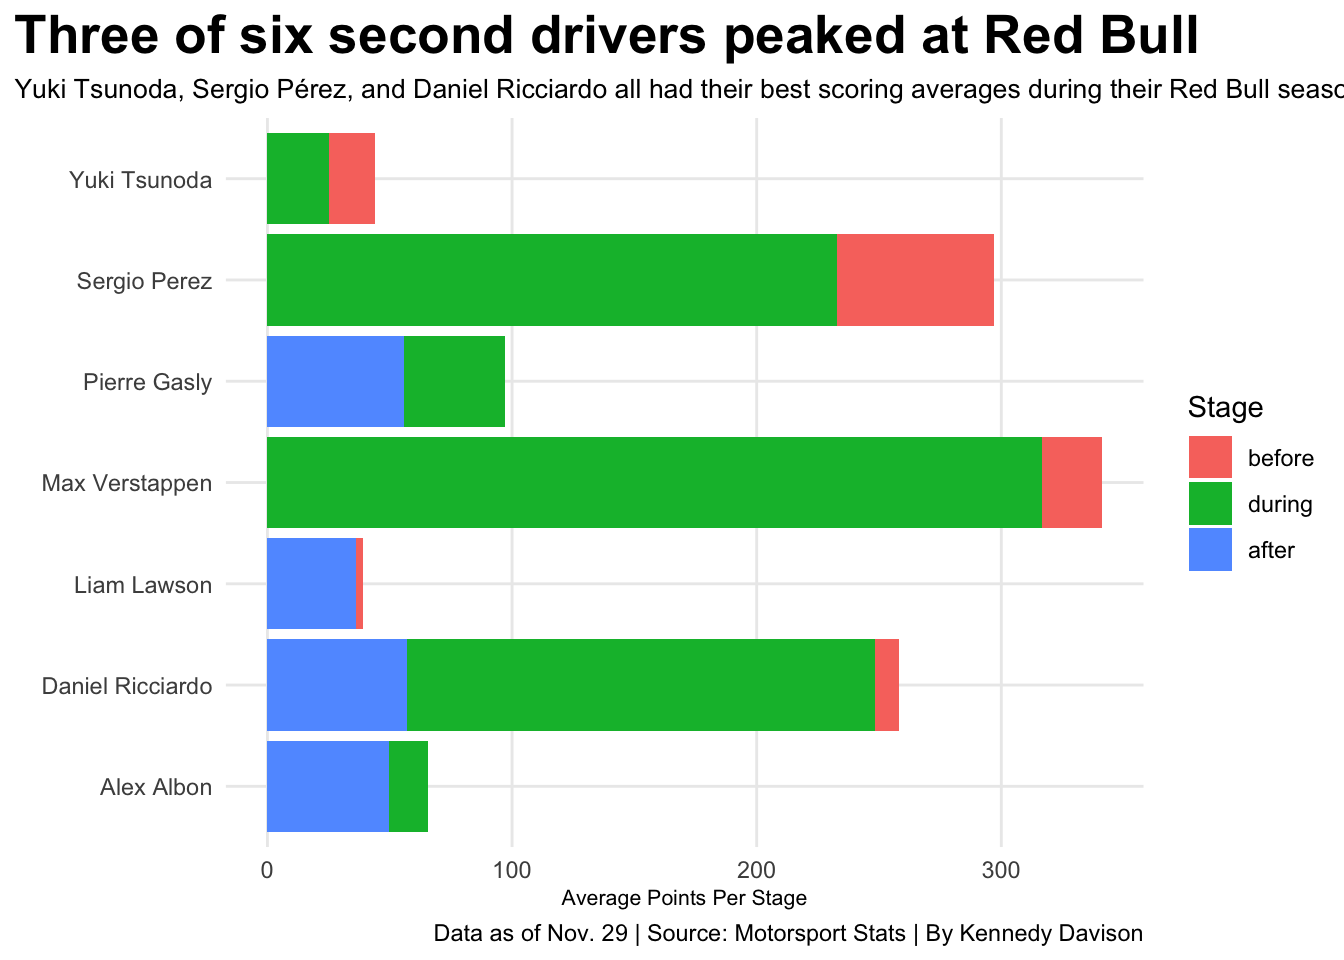
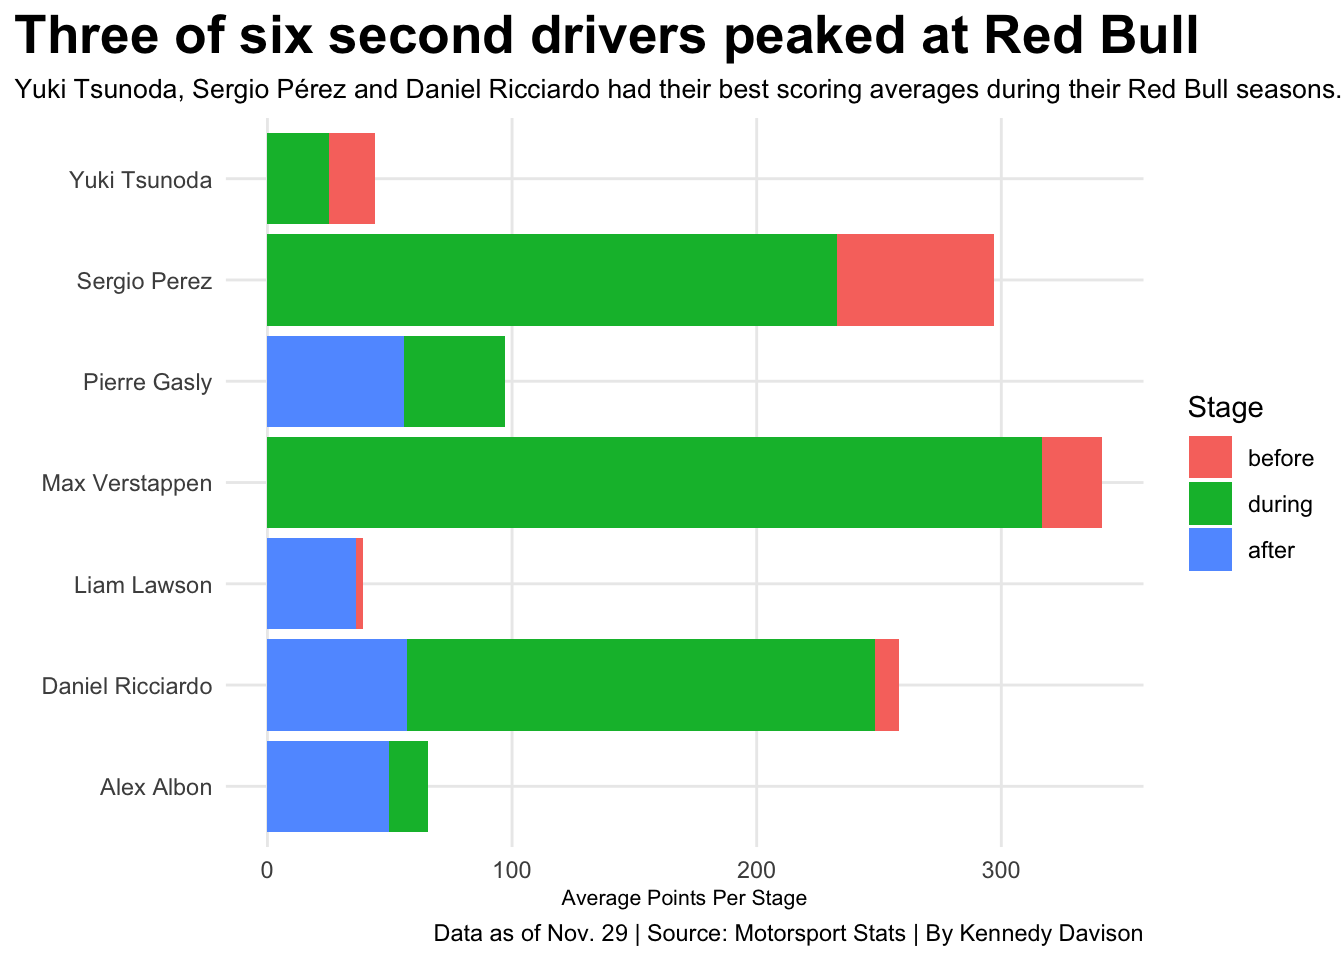
blog

Changed region(s): [[0.25, 0.0625, 1.0, 0.125]]

diff --git a/posts/red-bull-curse/index.html b/posts/red-bull-curse/index.html
@@ -279,7 +279,7 @@ pre > code.sourceCode > span > a:first-child::before { text-decoration: underlin
 <span id="cb1-78"><a href="#cb1-78" aria-hidden="true" tabindex="-1"></a>    <span class="at">x=</span><span class="st">""</span>, </span>
 <span id="cb1-79"><a href="#cb1-79" aria-hidden="true" tabindex="-1"></a>    <span class="at">y=</span><span class="st">"Average Points Per Stage"</span>, </span>
 <span id="cb1-80"><a href="#cb1-80" aria-hidden="true" tabindex="-1"></a>    <span class="at">title=</span><span class="st">"Three of six second drivers peaked at Red Bull"</span>, </span>
-<span id="cb1-81"><a href="#cb1-81" aria-hidden="true" tabindex="-1"></a>    <span class="at">subtitle=</span><span class="st">"Yuki Tsunoda, Sergio Pérez, and Daniel Ricciardo all had their best scoring averages during their Red Bull seasons."</span>, </span>
+<span id="cb1-81"><a href="#cb1-81" aria-hidden="true" tabindex="-1"></a>    <span class="at">subtitle=</span><span class="st">"Yuki Tsunoda, Sergio Pérez and Daniel Ricciardo had their best scoring averages during their Red Bull seasons."</span>, </span>
 <span id="cb1-82"><a href="#cb1-82" aria-hidden="true" tabindex="-1"></a>    <span class="at">caption=</span><span class="st">"Data as of Nov. 29 | Source: Motorsport Stats | By Kennedy Davison"</span></span>
 <span id="cb1-83"><a href="#cb1-83" aria-hidden="true" tabindex="-1"></a>    ) <span class="sc">+</span></span>
 <span id="cb1-84"><a href="#cb1-84" aria-hidden="true" tabindex="-1"></a>  <span class="fu">theme_minimal</span>() <span class="sc">+</span> </span>

diff --git a/index.html b/index.html
@@ -209,7 +209,7 @@ window.Quarto = {
 
 <div class="quarto-listing quarto-listing-container-default" id="listing-listing">
 <div class="list quarto-listing-default">
-<div class="quarto-post image-right" data-index="0" data-categories="Zm9ybXVsYW9uZSUyQ3JlZGJ1bGwlMkNtb3RvcnNwb3J0cw==" data-listing-date-sort="1764914400000" data-listing-file-modified-sort="1764802033183" data-listing-date-modified-sort="NaN" data-listing-reading-time-sort="6" data-listing-word-count-sort="1011">
+<div class="quarto-post image-right" data-index="0" data-categories="Zm9ybXVsYW9uZSUyQ3JlZGJ1bGwlMkNtb3RvcnNwb3J0cw==" data-listing-date-sort="1764914400000" data-listing-file-modified-sort="1764824506673" data-listing-date-modified-sort="NaN" data-listing-reading-time-sort="6" data-listing-word-count-sort="1010">
 <div class="thumbnail"><a href="./posts/red-bull-curse/index.html" class="no-external">
 
 <img loading="lazy" src="./posts/red-bull-curse/image.png" class="thumbnail-image">
